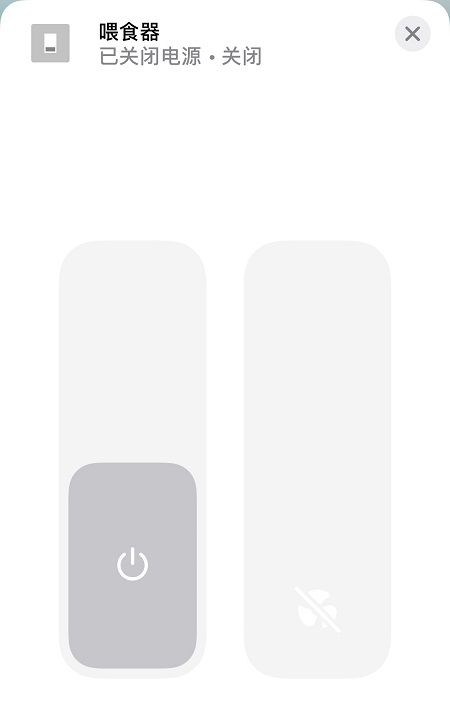
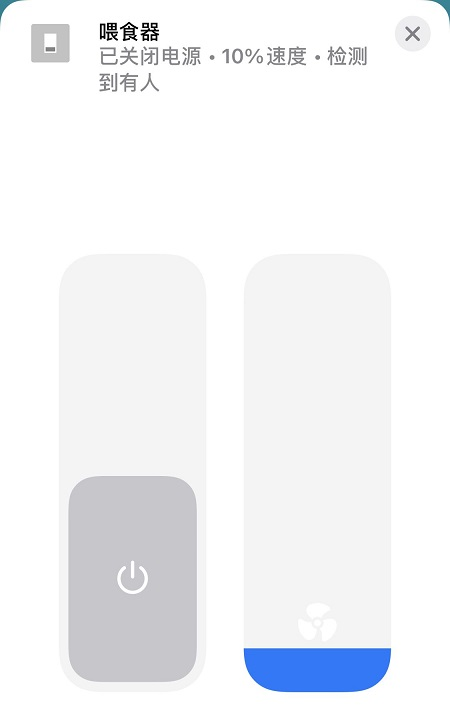
1、added food storage status indicator. 2、added polling service. 3、update setting UI. 4、update README.md and upload new screenshot.

diff --git a/index.js b/index.js
@@ -6,6 +6,7 @@ const request = require('request');
 const request_sync = require('urllib-sync').request;
 const format = require('string-format');
 const dayjs = require('dayjs');
+const pollingtoevent = require('polling-to-event');
 
 const global_urls = Object.freeze({
     'cn': {
@@ -32,6 +33,8 @@ const global_urls = Object.freeze({
 
 const min_amount = 1;
 const max_amount = 10;
+const min_pollint_interval = 60;
+const max_pollint_interval = 3600;
 
 module.exports = function(homebridge) {
     Service = homebridge.hap.Service;
@@ -43,7 +46,7 @@ function petkit_feeder_mini_plugin(log, config, api) {
     this.log = log;
     this.config = config;
     this.api = api;
-    this.service = [];
+    this.poolToEventEmitter = null;
 
     this.log('begin to initialize petkit_feeder_mini_plugin');
 
@@ -121,58 +124,92 @@ function petkit_feeder_mini_plugin(log, config, api) {
     this.manufacturer = this.config['manufacturer'] || 'Petkit';
     this.model = this.config['model'] || 'Petkit feeder mini';
 
-    var deviceDetail = {};
-    if (this.config['autoDeviceInfo']) {
-        this.deviceDetailInfo = JSON.parse(this.getDeviceDetail());
-        if (this.deviceDetailInfo && this.deviceDetailInfo['result']) {
-            deviceDetail = this.deviceDetailInfo['result'];
-            this.log('retrieve device infomation from server.');
-        } else {
-            this.log('unable to retrieve device infomation from server.');
-        }
-    }
-    this.timezone = this.config['timezone'] || deviceDetail['timezone'] || 8;
-    this.name = this.config['name'] || deviceDetail['name'] || 'PetkitFeederMini';
-    this.serialNumber = this.config['sn'] || deviceDetail['sn'] || 'PetkitFeederMini';
-    this.firmware = this.config['firmware'] || deviceDetail['firmware'] || '1.0.0';
-
     this.log('Plugin Petkit Feeder Mini Loaded');
-
-    this.drop_meal_service = new Service.Switch('DropMeal');
-    this.drop_meal_service.getCharacteristic(Characteristic.On)
-        .on('get', this.getDropMealStatus.bind(this))
-        .on('set', this.setDropMealStatus.bind(this));
-    this.service.push(this.drop_meal_service);
-
-    this.meal_amount_service = new Service.Fan('MealAmount');
-    this.meal_amount_service.getCharacteristic(Characteristic.On)
-        .on('get', this.getMealAmountStatus.bind(this));
-    this.meal_amount_service.getCharacteristic(Characteristic.RotationSpeed)
-        .on('get', this.getMealAmount.bind(this))
-        .on('set', this.setMealAmount.bind(this))
-        .setProps({
-            minValue: 0,
-            // minValue: min_amount,
-            maxValue: max_amount,
-            minStep: 1
-        });
-    this.service.push(this.meal_amount_service);
-
-    this.info_service = new Service.AccessoryInformation();
-    this.info_service
-        .setCharacteristic(Characteristic.Identify, this.deviceId)
-        .setCharacteristic(Characteristic.Manufacturer, this.manufacturer)
-        .setCharacteristic(Characteristic.Model, this.model)
-        .setCharacteristic(Characteristic.SerialNumber, this.serialNumber)
-        // infomation below changed from petkit app require a homebridge reboot to take effect.
-        .setCharacteristic(Characteristic.Name, this.name)
-        .setCharacteristic(Characteristic.FirmwareRevision, this.firmware);
-    this.service.push(this.info_service);
 }
 
 petkit_feeder_mini_plugin.prototype = {
     getServices: function() {
-        return this.service;
+        var services = [];
+        this.drop_meal_service = new Service.Switch('DropMeal');
+        this.drop_meal_service.getCharacteristic(Characteristic.On)
+            .on('get', this.getDropMealStatus.bind(this))
+            .on('set', this.setDropMealStatus.bind(this));
+        services.push(this.drop_meal_service);
+
+        this.meal_amount_service = new Service.Fan('MealAmount');
+        this.meal_amount_service.getCharacteristic(Characteristic.On)
+            .on('get', this.getMealAmountStatus.bind(this));
+        this.meal_amount_service.getCharacteristic(Characteristic.RotationSpeed)
+            .on('get', this.getMealAmount.bind(this))
+            .on('set', this.setMealAmount.bind(this))
+            .setProps({
+                minValue: 0,
+                // minValue: min_amount,
+                maxValue: max_amount,
+                minStep: 1
+            });
+        services.push(this.meal_amount_service);
+
+        var deviceDetailInfo = this.updateDeviceDetail();
+        this.food_storage_service = new Service.OccupancySensor('FoodStorage');
+        this.food_storage_service.getCharacteristic(Characteristic.OccupancyDetected)
+            .on('get', this.getFoodStorageStatus.bind(this));
+        var food_storage_status = deviceDetailInfo['food'] || 0;
+        this.food_storage_service.setCharacteristic(Characteristic.OccupancyDetected, food_storage_status)
+        services.push(this.food_storage_service);
+
+        if (this.config['autoDeviceInfo']) {
+            this.name = deviceDetailInfo['name'] || this.config['name'] || 'PetkitFeederMini';
+            this.serialNumber = deviceDetailInfo['sn'] || this.config['sn'] || 'PetkitFeederMini';
+            this.firmware = deviceDetailInfo['firmware'] || this.config['firmware'] || '1.0.0';
+        } else {
+            this.name = this.config['name'] || 'PetkitFeederMini';
+            this.serialNumber = this.config['sn'] || 'PetkitFeederMini';
+            this.firmware = this.config['firmware'] || '1.0.0';
+        }
+
+        this.info_service = new Service.AccessoryInformation();
+        this.info_service
+            .setCharacteristic(Characteristic.Identify, this.deviceId)
+            .setCharacteristic(Characteristic.Manufacturer, this.manufacturer)
+            .setCharacteristic(Characteristic.Model, this.model)
+            .setCharacteristic(Characteristic.SerialNumber, this.serialNumber)
+            // infomation below changed from petkit app require a homebridge reboot to take effect.
+            .setCharacteristic(Characteristic.Name, this.name)
+            .setCharacteristic(Characteristic.FirmwareRevision, this.firmware);
+        services.push(this.info_service);
+
+        // polling
+        this.enable_polling = this.config['enable_polling'] || true;
+        if (this.enable_polling) {
+            // enable_polling between 5min to 1day, default 5min
+            this.polling_interval = this.config['polling_interval'] || min_pollint_interval;
+            if (this.polling_interval < min_pollint_interval) {
+                this.log.warn('polling interval should greater than ' + min_pollint_interval + '(' + min_pollint_interval / 60 +' min), change to ' + min_pollint_interval + '.');
+                this.polling_interval = min_pollint_interval;
+            } else if (this.polling_interval > max_pollint_interval) {
+                this.log.warn('polling interval should less than ' + max_pollint_interval + '(' + max_pollint_interval / 60 +' min), change to ' + max_pollint_interval + '.');
+                this.polling_interval = max_pollint_interval;
+            }
+            const polling_options = {
+                longpolling: true,
+                interval: this.polling_interval * 1000,
+                longpollEventName: 'deviceStatusUpdatePoll'
+            };
+            this.poolToEventEmitter = pollingtoevent(function(done) {
+                this.log('start polling...');
+                var deviceDetailInfo = this.updateDeviceDetail(function(status_info) {
+                    done(null, status_info)
+                }.bind(this));
+            }.bind(this), polling_options);
+
+            this.poolToEventEmitter.on('deviceStatusUpdatePoll', function(status_info) {
+                this.updateHomebridgeStatus(status_info);
+                this.log.debug('emit polling data: ' + JSON.stringify(status_info));
+            }.bind(this));
+        }
+
+        return services;
     },
 
     // timeString: 08:20:00
@@ -403,21 +440,62 @@ petkit_feeder_mini_plugin.prototype = {
         return this.post(this.urls.owndevices, callback);
     },
 
+    updateDeviceDetail: function(callback = null) {
+        const parseDataFunction = function (data) {
+            if (!data) {
+                this.log('unable to retrieve device infomation from server.');
+                return {};
+            } else {
+                var deviceDetailInfo = JSON.parse(data);
+                if (deviceDetailInfo && deviceDetailInfo['result'] &&
+                    deviceDetailInfo['result']['state'] &&
+                    deviceDetailInfo['result']['settings']) {
+                    this.log('successfully retrieved device infomation from server.');
+                    const status_info = {
+                        'food' : deviceDetailInfo['result']['state']['food'] || 0,
+                        'batteryPower' : deviceDetailInfo['result']['state']['batteryPower'] || 0,
+                        'batteryStatus' : deviceDetailInfo['result']['state']['batteryStatus'] || 0,
+                        'manualLock' : deviceDetailInfo['result']['settings']['manualLock'] || 0,
+                        'name' : deviceDetailInfo['result']['name'] || 'PetkitFeederMini',
+                        'sn' : deviceDetailInfo['result']['sn'] || 'PetkitFeederMini',
+                        'firmware' : deviceDetailInfo['result']['firmware'] || '1.0.0'
+                    };
+                    return status_info;
+                } else {
+                    this.log('unable to retrieve device infomation from server.');
+                    return {};
+                }
+            }
+        }.bind(this);
+
+        if (callback) {
+            this.getDeviceDetail(function(data) {
+                callback(parseDataFunction(data));
+            }.bind(this));
+        } else {
+            return parseDataFunction(this.getDeviceDetail());
+        }
+    },
+
     getDropMealStatus: function(callback) {
         const currentValue = 0;
         callback(null, currentValue);
     },
 
     setDropMealStatus: function(value, callback) {
-        if (value && this.mealAmount) {
-            this.log('drop food:' + this.mealAmount + 'meal(s)');
-            const that = this;
-            const data = this.saveDailyFeed(dayjs(new Date()).format('YYYYMMDD'), -1, this.mealAmount);
-            if (!data) {
-                callback('failed to commuciate with server.');
+        if (value) {
+            if (this.mealAmount) {
+                this.log('drop food:' + this.mealAmount + 'meal(s)');
+                const that = this;
+                const data = this.saveDailyFeed(dayjs(new Date()).format('YYYYMMDD'), -1, this.mealAmount);
+                if (!data) {
+                    callback('failed to commuciate with server.');
+                } else {
+                    const result = that.praseSaveDailyFeedResult(data);
+                    that.log('food drop result: ' + result);
+                }
             } else {
-                const result = that.praseSaveDailyFeedResult(data);
-                that.log('food drop result: ' + result);
+                this.log('drop food with zero amount, pass.');
             }
             setTimeout(function() {
                 this.drop_meal_service.setCharacteristic(Characteristic.On, false);
@@ -440,4 +518,18 @@ petkit_feeder_mini_plugin.prototype = {
         this.log('set meal amount to ' + value);
         callback(null);
     },
+
+    getFoodStorageStatus: function(callback) {
+        if (this.poolToEventEmitter) {this.poolToEventEmitter.pause();}
+        this.updateDeviceDetail(function(data){
+            var status = data['food'] || false;
+            this.log.debug('device food storage status is: ' + (status ? 'Ok' : 'Empty'));
+            if (this.poolToEventEmitter) {this.poolToEventEmitter.resume();}
+            callback(null, status);
+        }.bind(this));
+    },
+
+    updateHomebridgeStatus: function(status_info) {
+        this.food_storage_service.setCharacteristic(Characteristic.OccupancyDetected, status_info['food'] || false);
+    }
 }

diff --git a/README.md b/README.md
@@ -4,7 +4,7 @@
 
 control your petkit feeder mini from homekit, get full use of iOS automation.
 
-<img src="https://raw.githubusercontent.com/elfive/homebridge-petkit-feeder-mini/master/screenshot.jpg" alt="screenshot" />
+<img src="https://raw.githubusercontent.com/elfive/homebridge-petkit-feeder-mini/master/screenshot.jpg" alt="screenshot" /><img src="https://raw.githubusercontent.com/elfive/homebridge-petkit-feeder-mini/master/screenshot2.jpg" alt="screenshot2" />
 
 - this plugin uses fan speed to control the meal amount, and uses the switch to commit the drop.
 
@@ -66,18 +66,20 @@ you can find X-Session data from the request header area and deviceId in respons
 
 ### config.json field
 
-|  field   name  |  type  | required |       default        |    range    | description                                                  |
-| :------------: | :----: | :------: | :------------------: | :---------: | ------------------------------------------------------------ |
-|      name      | string |   yes    |  'PetkitFeederMini'  |     ---     | device name shows in HomeKit. If autoDeviceInfo is set to true, it will overwrited with the name in your Petkit app. we don't need it, but homebridge need it. |
-|    location    | string |   yes    |         'cn'         | 'cn','asia' | China user:'cn'; Asia user: 'asia'; other location because lack of infomation, not support yet. |
-|    headers     | array  |   yes    |         ---          |     ---     | http request headers.see more detail below(headers field)    |
-|    deviceId    | string |   tbd    |         ---          |     ---     | your Petkit feeder mini Id, which is buildin your device, will never change. If you just have one Petkit feeder mini, you can not provide this value. |
-|   mealAmount   |  int   |    no    |          3           |   1 to 10   | In homekit this shows as a switch, every time you click this switch it will drop mealAmount meal. This value just for initialize the fan speed after homebridge restart.  A meal stands for about 5g or 1/20 cup of food. |
-| autoDeviceInfo |  bool  |    no    |        false         | true/false  | this plugin supports retrieve device info from Petkit server. Set this value to true, it can retrieve device information (timezone, name, sn, firmware), and shows it in homekit app. |
-|       sn       | string |    no    |  'PetkitFeederMini'  |     ---     | serial number shows in homekit app. If autoDeviceInfo is set to true, it will overwrited with the sn of your device. |
-|    firmware    | string |    no    |       '1.0.0'        |     ---     | firmware version shows in homekit app. If autoDeviceInfo is set to true, it will overwrited with the firmware version of your device. |
-|  manufacturer  | string |    no    |       'Petkit'       |     ---     | the manufacturer of your device.                             |
-|     model      | string |    no    | 'Petkit feeder mini' |     ---     | the model of your device.                                    |
+|   field   name   |  type  | required |       default        |    range    | description                                                  |
+| :--------------: | :----: | :------: | :------------------: | :---------: | ------------------------------------------------------------ |
+|       name       | string |   yes    |  'PetkitFeederMini'  |     ---     | device name shows in HomeKit. If autoDeviceInfo is set to true, it will overwrited with the name in your Petkit app. we don't need it, but homebridge need it. |
+|     location     | string |   yes    |         'cn'         | 'cn','asia' | China user:'cn'; Asia user: 'asia'; other location because lack of infomation, not support yet. |
+|     headers      | array  |   yes    |         ---          |     ---     | http request headers.see more detail below(headers field)    |
+|     deviceId     | string |   tbd    |         ---          |     ---     | your Petkit feeder mini Id, which is buildin your device, will never change. If you just have one Petkit feeder mini, you can not provide this value. |
+|    mealAmount    |  int   |    no    |          3           |   1 to 10   | In homekit this shows as a switch, every time you click this switch it will drop mealAmount meal. This value just for initialize the fan speed after homebridge restart.  A meal stands for about 5g or 1/20 cup of food. |
+|  autoDeviceInfo  |  bool  |    no    |        false         | true/false  | this plugin supports retrieve device info from Petkit server. Set this value to true, it can retrieve device information (timezone, name, sn, firmware), and shows it in homekit app. |
+|        sn        | string |    no    |  'PetkitFeederMini'  |     ---     | serial number shows in homekit app. If autoDeviceInfo is set to true, it will overwrited with the sn of your device. |
+|     firmware     | string |    no    |       '1.0.0'        |     ---     | firmware version shows in homekit app. If autoDeviceInfo is set to true, it will overwrited with the firmware version of your device. |
+|   manufacturer   | string |    no    |       'Petkit'       |     ---     | the manufacturer of your device.                             |
+|      model       | string |    no    | 'Petkit feeder mini' |     ---     | the model of your device.                                    |
+|  enable_polling  |  bool  |    no    |         true         | true/false  | Automatically update device info from Petkit server.         |
+| polling_interval |  int   |    no    |          60          | 60 to 3600  | update device info interval from Petkit server(ms).          |
 
 
 
@@ -97,8 +99,8 @@ you can find X-Session data from the request header area and deviceId in respons
 "accessories": [{
     "accessory": "petkit_feeder_mini",
     "autoDeviceInfo": true,
-    "name": "喂食器",
-    "deviceId": "356367",
+    "name": "feeder",
+    "deviceId": "123456",
     "location": "asia",
     "headers": [
         {
